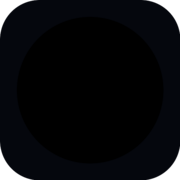
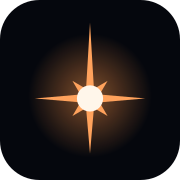
site: the leader is drawn as the North Star, the sky turns around it, the install section shows star trails, and the sections sit closer together

diff --git a/site/script.js b/site/script.js
@@ -137,7 +137,7 @@ const FORMS = {
     const S = stage(), names = ["parser", "validator", "tests", "docs"];
     const r = Math.min(S.w / 10, 50), m = narrow ? 50 : 90;
     const lx = S.x + S.w / 2, ly = S.y + S.h * .12;
-    const pts = [], lines = [], labels = [{ x: lx, y: ly - 34, text: "leader", color: C.leader }];
+    const pts = [], lines = [], labels = [{ x: lx + 24, y: ly - 24, text: "leader", color: C.leader, align: "left" }];
     names.forEach((name, i) => {
       const cx = S.x + S.w * (i + .5) / names.length, cy = S.y + S.h * .64;
       pts.push(...disc(cx, cy, m, r, { c: TINTS[i], s: 1.6 }));
@@ -181,7 +181,7 @@ const FORMS = {
       { name: "validator", state: "working", c: C.work, jit: 2.2 },
       { name: "tests", state: "asking", c: C.ask, pulse: true, note: "reject or skip?" },
     ];
-    const pts = [], lines = [], labels = [{ x: lx, y: ly - 34, text: "leader", color: C.leader }];
+    const pts = [], lines = [], labels = [{ x: lx + 24, y: ly - 24, text: "leader", color: C.leader, align: "left" }];
     const centres = kinds.map((k, i) => {
       const cx = S.x + S.w * (i + .5) / 3, cy = S.y + S.h * .66;
       pts.push(...disc(cx, cy, m, r, { c: k.c, s: 1.6, jit: k.jit || 0, pulse: !!k.pulse }));
@@ -271,7 +271,7 @@ const FORMS = {
     const labels = [
       { x: you.x, y: you.y + 30, text: "you" },
       { x: adv.x, y: adv.y + 38, text: "navigator", color: C.violet },
-      { x: lx, y: ly - 32, text: "leader", color: C.leader },
+      { x: lx + 24, y: ly - 24, text: "leader", color: C.leader, align: "left" },
       { x: (adv.x + lx) / 2, y: cy + 18, text: "reads", dim: true },
     ];
     const lines = [[you.x + 12, you.y, adv.x - 20, adv.y], [adv.x + 20, adv.y, lx - 16, ly]];
@@ -292,16 +292,21 @@ const FORMS = {
     };
   },
 
-  // The crew at rest: slow orbits around the leader.
+  // The crew at rest: star trails, the long-exposure photo of the sky turning around the North Star.
+  // Each trail is a crewmate, bright at its head and fading behind it, and they all turn together.
   rest() {
-    const S = stage(), cx = S.x + S.w / 2, cy = S.y + S.h / 2, R = Math.min(S.w, S.h) / 2;
-    const rings = [[.28, .14], [.5, .22], [.74, .3], [.96, .34]];
-    const pts = [];
-    const n = Math.floor(dots.length * .8);
-    rings.forEach(([rr, share], ri) => {
-      const m = Math.floor(n * share);
-      for (let k = 0; k < m; k++) pts.push({ orbit: [cx, cy, R * rr, k / m * 6.283, (ri % 2 ? -1 : 1) * (.00006 + .00003 * ri)], c: ri === 0 ? C.leader : C.agent, s: ri === 0 ? 1.3 : 1.2, x: cx, y: cy });
-    });
+    const S = stage(), cx = S.x + S.w / 2, cy = S.y + S.h / 2, R = Math.min(S.w, S.h) * .52;
+    const tints = [C.agent, C.agent, C.agent, C.work, C.violet, C.teal, C.ask];
+    const pts = [], n = Math.floor(dots.length * .8);
+    while (pts.length < n) {
+      const r = R * (.1 + .9 * Math.sqrt(Math.random())), span = .35 + Math.random() * 1.1;
+      const m = Math.max(4, Math.floor(span * r / 4.5)), head = Math.random() * 6.283;
+      const c = tints[Math.floor(Math.random() * tints.length)];
+      for (let k = 0; k < m && pts.length < n; k++) {
+        const u = k / m; // 0 at the head
+        pts.push({ orbit: [cx, cy, r, head + span * u, -.00007, 1], c, s: u < .05 ? 1.6 : 1.1, a: (.95 * (1 - u) ** 1.6 + .05) * (narrow ? .5 : 1), x: cx, y: cy });
+      }
+    }
     return { pts, leader: { x: cx, y: cy, s: 11 }, faint: narrow };
   },
 };
@@ -355,6 +360,9 @@ function setScene(name, force) {
   if (still) { leader.x = leader.tx; leader.y = leader.ty - (form.doc ? scrollY : 0); }
 }
 
+// How fast the sky turns around the North Star, in radians per millisecond (about half a degree a second).
+const SKY_TURN = .0000095;
+
 // The leader calls the crew: a ring of light goes out, and the dots it passes flare.
 const RING_LIFE = 1800;
 function call(at) { leader.rings.push(at); leader.lastRing = at; }
@@ -390,28 +398,30 @@ function drawLeader(now) {
   ctx.fillStyle = radial(s * 18, [[0, `rgba(255,120,40,${.2 * a})`], [.35, `rgba(255,100,30,${.06 * a})`], [1, "rgba(255,90,20,0)"]]);
   ctx.beginPath(); ctx.arc(x, y, s * 18, 0, 6.283); ctx.fill();
 
-  // A soft horizontal lens streak.
-  ctx.save();
-  ctx.translate(x, y); ctx.scale(1, .07);
-  const streak = ctx.createRadialGradient(0, 0, 0, 0, 0, s * 7);
-  streak.addColorStop(0, `rgba(255,200,150,${.42 * a})`);
-  streak.addColorStop(1, "rgba(255,160,90,0)");
-  ctx.fillStyle = streak; ctx.beginPath(); ctx.arc(0, 0, s * 7, 0, 6.283); ctx.fill();
-  ctx.restore();
-
-  // Two slow-turning spikes.
-  for (let i = 0; i < 2; i++) {
-    const ang = t * .00012 * (i ? -1 : 1) + i * 1.1, len = s * (3.6 + .6 * leader.idle * Math.sin(t * .0017 + i));
-    const dx = Math.cos(ang) * len, dy = Math.sin(ang) * len;
-    const g = ctx.createLinearGradient(x - dx, y - dy, x + dx, y + dy);
-    g.addColorStop(0, "rgba(255,170,100,0)"); g.addColorStop(.5, `rgba(255,190,130,${.32 * a})`); g.addColorStop(1, "rgba(255,170,100,0)");
-    ctx.strokeStyle = g; ctx.lineWidth = 1;
-    ctx.beginPath(); ctx.moveTo(x - dx, y - dy); ctx.lineTo(x + dx, y + dy); ctx.stroke();
+  // The North Star's rays: four long ones on the compass points, north the longest, and four short
+  // ones between them. They breathe a little, the way a star twinkles.
+  const ray = (ang, len, w, alpha) => {
+    const dx = Math.cos(ang), dy = Math.sin(ang);
+    const g = ctx.createLinearGradient(x, y, x + dx * len, y + dy * len);
+    g.addColorStop(0, `rgba(255,236,205,${alpha * a})`); g.addColorStop(.35, `rgba(255,190,130,${alpha * .55 * a})`); g.addColorStop(1, "rgba(255,160,90,0)");
+    ctx.fillStyle = g;
+    ctx.beginPath();
+    ctx.moveTo(x - dy * w, y + dx * w);
+    ctx.lineTo(x + dx * len, y + dy * len);
+    ctx.lineTo(x + dy * w, y - dx * w);
+    ctx.closePath(); ctx.fill();
+  };
+  // A small star (the docs' logo) keeps short rays, so they don't run into the text beside it.
+  const reach = Math.min(1, Math.max(.3, (s - 3) / 5));
+  for (let i = 0; i < 8; i++) {
+    const long = i % 2 === 0, tw = 1 + .12 * Math.sin(t * .0021 + i * 1.7) * (.4 + .6 * leader.idle);
+    const len = s * (long ? (i === 6 ? 8.5 : 6.2) * reach : 2.8) * tw;
+    ray(i * Math.PI / 4, len, s * (long ? .34 : .22), long ? .9 : .55);
   }
 
   // The corona: a wobbling edge, so it never sits still like a picture.
   for (let layer = 0; layer < 2; layer++) {
-    const base = s * (layer ? 3.1 : 2.2), sp = layer ? -.0011 : .0016;
+    const base = s * (layer ? 2.4 : 1.7), sp = layer ? -.0011 : .0016;
     ctx.beginPath();
     for (let i = 0; i <= 48; i++) {
       const ang = i / 48 * 6.283;
@@ -488,11 +498,20 @@ function frame(now) {
     }
     let tx = d.tx, ty = d.ty - (d.anchor ? scrollY : 0);
     if (d.free) {
-      tx = d.hx + Math.sin(now * .00023 + d.ph) * 60;
-      ty = d.hy + Math.cos(now * .00019 + d.ph * 1.3) * 60;
+      // The sky turns around the North Star, counterclockwise, as it does over the pole. A star the turn
+      // carries off the screen comes back somewhere on it, fading in.
+      const px = leader.tx, py = leader.ty - off, ang = -SKY_TURN * (still ? 0 : since), cos = Math.cos(ang), sin = Math.sin(ang);
+      tx = px + (d.hx - px) * cos - (d.hy - py) * sin;
+      ty = py + (d.hx - px) * sin + (d.hy - py) * cos;
+      if (tx < -30 || tx > W + 30 || ty < -30 || ty > H + 30) {
+        tx = Math.random() * W; ty = Math.random() * H;
+        d.hx = px + (tx - px) * cos + (ty - py) * sin;
+        d.hy = py - (tx - px) * sin + (ty - py) * cos;
+        Object.assign(d, { x: tx, y: ty, vx: 0, vy: 0, a: 0 });
+      }
     } else if (d.orbit) {
-      const [cx, cy, r, a0, sp] = d.orbit, a = a0 + now * sp * (still ? 0 : 1);
-      tx = cx + Math.cos(a) * r; ty = cy + Math.sin(a) * r * .62;
+      const [cx, cy, r, a0, sp, squash = .62] = d.orbit, a = a0 + now * sp * (still ? 0 : 1);
+      tx = cx + Math.cos(a) * r; ty = cy + Math.sin(a) * r * squash;
     }
     if (d.jit && !still) { tx += Math.sin(now * .011 + d.ph * 9) * d.jit; ty += Math.cos(now * .013 + d.ph * 7) * d.jit; }
     const shown = since >= d.delay;
@@ -509,6 +528,7 @@ function frame(now) {
     d.s += (d.ts - d.s) * .08;
     let a = d.a;
     if (d.pulse && !still) a *= .55 + .45 * Math.sin(now * .005 + d.ph * .3);
+    if (d.free && !still) a *= .7 + .3 * Math.sin(now * .0023 + d.ph * 7);
     if (a < .01) continue;
     // Warm light from the leader on the dots close to it, and a flare where a ring passes.
     let col = d.c, size = d.s;
@@ -638,7 +658,7 @@ const loadShell = () => (shell ||= fetch(DOCS).then((r) => { if (!r.ok) throw ne
 // The renderer and the docs' script: neither does anything on the landing until mounted.
 let scripts = null;
 const loadScripts = () => (scripts ||= load("script", "marked-js", { src: "https://cdn.jsdelivr.net/npm/marked@12.0.2/marked.min.js" })
-  .then(() => window.packDocs || load("script", "docs-js", { src: new URL("docs.js?v=6", DOCS).href })));
+  .then(() => window.packDocs || load("script", "docs-js", { src: new URL("docs.js?v=7", DOCS).href })));
 const REVEAL = 450;
 
 function load(tag, id, attrs) {
@@ -700,7 +720,7 @@ async function goDocs(url, push = true) {
   savedY = scrollY;
   introDone = true;
   document.body.classList.add("to-docs");
-  await Promise.all([load("link", "docs-css", { rel: "stylesheet", href: new URL("docs.css?v=8", DOCS).href }), wait(320)]);
+  await Promise.all([load("link", "docs-css", { rel: "stylesheet", href: new URL("docs.css?v=9", DOCS).href }), wait(320)]);
   const root = document.createElement("div");
   root.id = "docs-root"; root.className = "ghost";
   const parsed = new DOMParser().parseFromString(html, "text/html");

diff --git a/site/styles.css b/site/styles.css
@@ -34,7 +34,8 @@ main, .top, .foot { position: relative; z-index: 1; }
 /* Top bar */
 .top { position: fixed; top: 0; left: 0; right: 0; z-index: 10; display: flex; align-items: center; justify-content: space-between; gap: 16px; padding: 16px 32px; background: linear-gradient(var(--bg) 20%, rgba(5, 7, 13, 0)); }
 .brand { display: inline-flex; align-items: center; gap: 10px; font-weight: 700; font-size: 18px; letter-spacing: -.02em; text-decoration: none; }
-.brand-dot { width: 10px; height: 10px; border-radius: 50%; background: var(--leader); box-shadow: 0 0 14px 3px rgba(255, 150, 72, .55); }
+.brand-dot { width: 18px; height: 18px; overflow: visible; fill: var(--leader); filter: drop-shadow(0 0 5px rgba(255, 150, 72, .75)); }
+.brand-dot circle { fill: #fff6ea; }
 .top nav { display: flex; align-items: center; gap: 26px; font-size: 15px; font-weight: 500; }
 .top nav a:not(.pill) { text-decoration: none; color: #cdd3df; }
 .top nav a:not(.pill):hover { color: #fff; }
@@ -63,7 +64,7 @@ main, .top, .foot { position: relative; z-index: 1; }
 
 /* Scroll steps: text on the left, the dots form on the right */
 .wrap { width: 100%; max-width: 1200px; margin: 0 auto; padding: 0 40px; }
-.step { min-height: 100svh; display: flex; align-items: center; }
+.step { padding: 12svh 0; }
 .step-text, .install-text { max-width: min(450px, 42vw); }
 .kicker { margin: 0 0 18px; font-family: var(--mono); font-size: 13px; letter-spacing: .08em; text-transform: uppercase; color: var(--leader); }
 .step h2, .install h2 { margin: 0 0 22px; font-size: clamp(38px, 4.6vw, 60px); font-weight: 700; line-height: 1.02; letter-spacing: -.035em; background: linear-gradient(180deg, #ffffff 30%, #a9b5ca); -webkit-background-clip: text; background-clip: text; color: transparent; }
@@ -72,7 +73,7 @@ pre { margin: 22px 0 0; padding: 14px 16px; overflow-x: auto; border: 1px solid 
 pre code { font-size: inherit; }
 
 /* Install */
-.install { min-height: 100svh; padding: 140px 0 120px; display: flex; align-items: center; }
+.install { padding: 12svh 0 120px; }
 .install-text { max-width: min(560px, 46vw); }
 .install .sub { color: #cdd3df; margin-top: 26px; }
 .install .sub a { color: #fff; }
@@ -100,9 +101,9 @@ pre code { font-size: inherit; }
   .hero { padding: 90px 16px 60px; }
   .wordmark-slot { height: clamp(150px, 30vh, 250px); }
   .wrap { padding: 0 16px; }
-  .step { align-items: flex-end; padding: 52vh 0 7vh; }
+  .step { padding: 44vh 0 4vh; }
   .step-text, .install-text { max-width: none; padding: 22px 20px; border: 1px solid var(--line); border-radius: 18px; background: rgba(5, 7, 13, .82); -webkit-backdrop-filter: blur(10px); backdrop-filter: blur(10px); }
-  .install { padding: 52vh 0 80px; }
+  .install { padding: 44vh 0 80px; }
   .foot { padding: 24px 16px; }
   .code pre { padding-right: 16px; }
   .code-prompt { padding: 18px 18px 14px; }

diff --git a/site/index.html b/site/index.html
@@ -18,14 +18,14 @@
   <link rel="preconnect" href="https://fonts.googleapis.com">
   <link rel="preconnect" href="https://fonts.gstatic.com" crossorigin>
   <link rel="stylesheet" href="https://fonts.googleapis.com/css2?family=Inter+Tight:wght@400;500;600;700;800&family=JetBrains+Mono:wght@400;500&display=swap">
-  <link rel="stylesheet" href="styles.css?v=11">
-  <script src="script.js?v=25" defer></script>
+  <link rel="stylesheet" href="styles.css?v=12">
+  <script src="script.js?v=26" defer></script>
 </head>
 <body>
   <canvas id="field" aria-hidden="true"></canvas>
 
   <header class="top">
-    <a class="brand" href="./"><span class="brand-dot" aria-hidden="true"></span>lodestar</a>
+    <a class="brand" href="./"><svg class="brand-dot" viewBox="-12 -12 24 24" aria-hidden="true"><path d="M0 -11 L.57 -1.39 L2.55 -2.55 L1.39 -.57 L8 0 L1.39 .57 L2.55 2.55 L.57 1.39 L0 8 L-.57 1.39 L-2.55 2.55 L-1.39 .57 L-8 0 L-1.39 -.57 L-2.55 -2.55 L-.57 -1.39Z"/><circle r="1.8"/></svg>lodestar</a>
     <nav aria-label="Main">
       <a href="docs/">Docs</a>
       <a href="docs/?p=commands">Commands</a>
@@ -44,7 +44,7 @@
         <a class="pill pill-light" href="#install">Install <span aria-hidden="true">↓</span></a>
         <a class="pill pill-ghost" href="https://github.com/zenodea/lodestar">View on GitHub <span aria-hidden="true">↗</span></a>
       </div>
-      <p class="legend"><span class="swatch swatch-agent" aria-hidden="true"></span>Each dot is an agent. <span class="swatch swatch-leader" aria-hidden="true"></span>The orange one is in charge: the lodestar, the star the others steer by.</p>
+      <p class="legend"><span class="swatch swatch-agent" aria-hidden="true"></span>Each dot is an agent. <span class="swatch swatch-leader" aria-hidden="true"></span>The orange star is in charge: the lodestar, the North Star the others steer by.</p>
     </section>
 
     <section class="step" id="delegate" data-scene="delegate" aria-labelledby="s1">

diff --git a/site/docs/index.html b/site/docs/index.html
@@ -12,10 +12,10 @@
   <link rel="preconnect" href="https://fonts.googleapis.com">
   <link rel="preconnect" href="https://fonts.gstatic.com" crossorigin>
   <link rel="stylesheet" href="https://fonts.googleapis.com/css2?family=Inter+Tight:wght@400;500;600;700&family=JetBrains+Mono:wght@400;500&display=swap">
-  <link rel="stylesheet" href="docs.css?v=8">
+  <link rel="stylesheet" href="docs.css?v=9">
   <script src="https://cdn.jsdelivr.net/npm/marked@12.0.2/marked.min.js" defer></script>
   <script src="docs.js?v=7" defer></script>
-  <script src="../script.js?v=25" defer></script>
+  <script src="../script.js?v=26" defer></script>
 </head>
 <body>
   <canvas id="field" aria-hidden="true"></canvas>
@@ -23,7 +23,7 @@
     <button class="menu" type="button" aria-label="Open the page list" aria-expanded="false" aria-controls="side">
       <span></span><span></span><span></span>
     </button>
-    <a class="logo" href="../"><span class="logo-dot" aria-hidden="true"></span>lodestar <span class="logo-tag">docs</span></a>
+    <a class="logo" href="../"><svg class="logo-dot" viewBox="-12 -12 24 24" aria-hidden="true"><path d="M0 -11 L.57 -1.39 L2.55 -2.55 L1.39 -.57 L8 0 L1.39 .57 L2.55 2.55 L.57 1.39 L0 8 L-.57 1.39 L-2.55 2.55 L-1.39 .57 L-8 0 L-1.39 -.57 L-2.55 -2.55 L-.57 -1.39Z"/><circle r="1.8"/></svg>lodestar <span class="logo-tag">docs</span></a>
     <div class="search" role="search">
       <input id="q" type="search" placeholder="Search the docs" autocomplete="off" spellcheck="false" aria-label="Search the docs" aria-controls="results">
       <kbd class="search-key" aria-hidden="true">/</kbd>

diff --git a/site/docs/docs.css b/site/docs/docs.css
@@ -35,7 +35,8 @@ button { font: inherit; cursor: pointer; }
 #field { position: fixed; inset: 0; z-index: 50; width: 100%; height: 100%; pointer-events: none; }
 .js .logo-dot { visibility: hidden; }
 .logo { display: inline-flex; align-items: center; gap: 9px; font-weight: 700; font-size: 17px; letter-spacing: -.02em; text-decoration: none; white-space: nowrap; }
-.logo-dot { width: 9px; height: 9px; border-radius: 50%; background: var(--leader); box-shadow: 0 0 12px 2px rgba(255, 150, 72, .55); }
+.logo-dot { width: 16px; height: 16px; overflow: visible; fill: var(--leader); filter: drop-shadow(0 0 4px rgba(255, 150, 72, .75)); }
+.logo-dot circle { fill: #fff6ea; }
 .logo-tag { padding: 2px 7px; border: 1px solid var(--line); border-radius: 6px; font-family: var(--mono); font-size: 11px; font-weight: 500; color: var(--muted); }
 .menu { display: none; flex-direction: column; justify-content: center; gap: 4px; width: 36px; height: 36px; padding: 0 9px; border: 1px solid var(--line); border-radius: 8px; background: transparent; }
 .menu span { display: block; height: 1.5px; background: var(--ink); }
